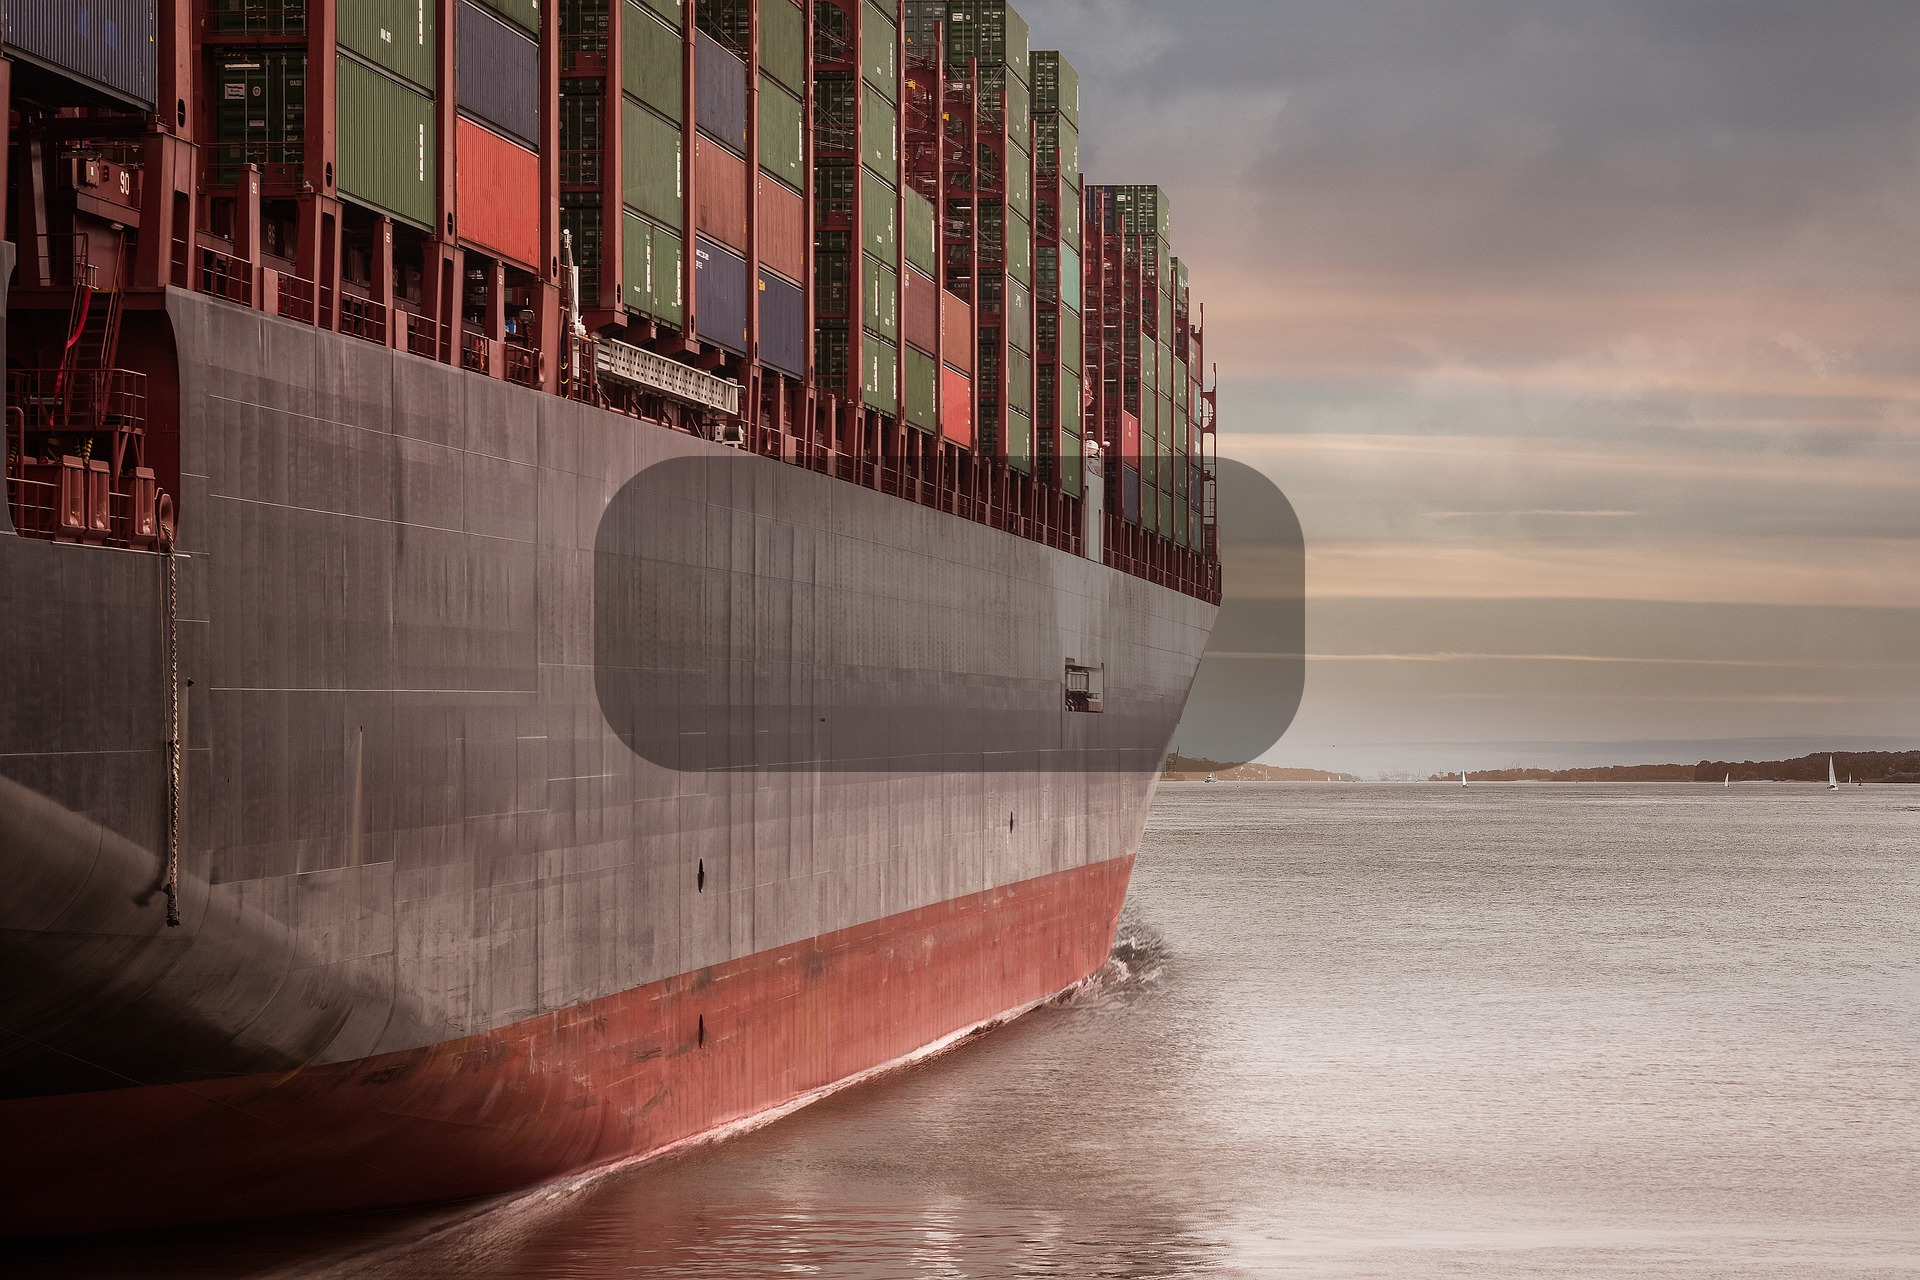
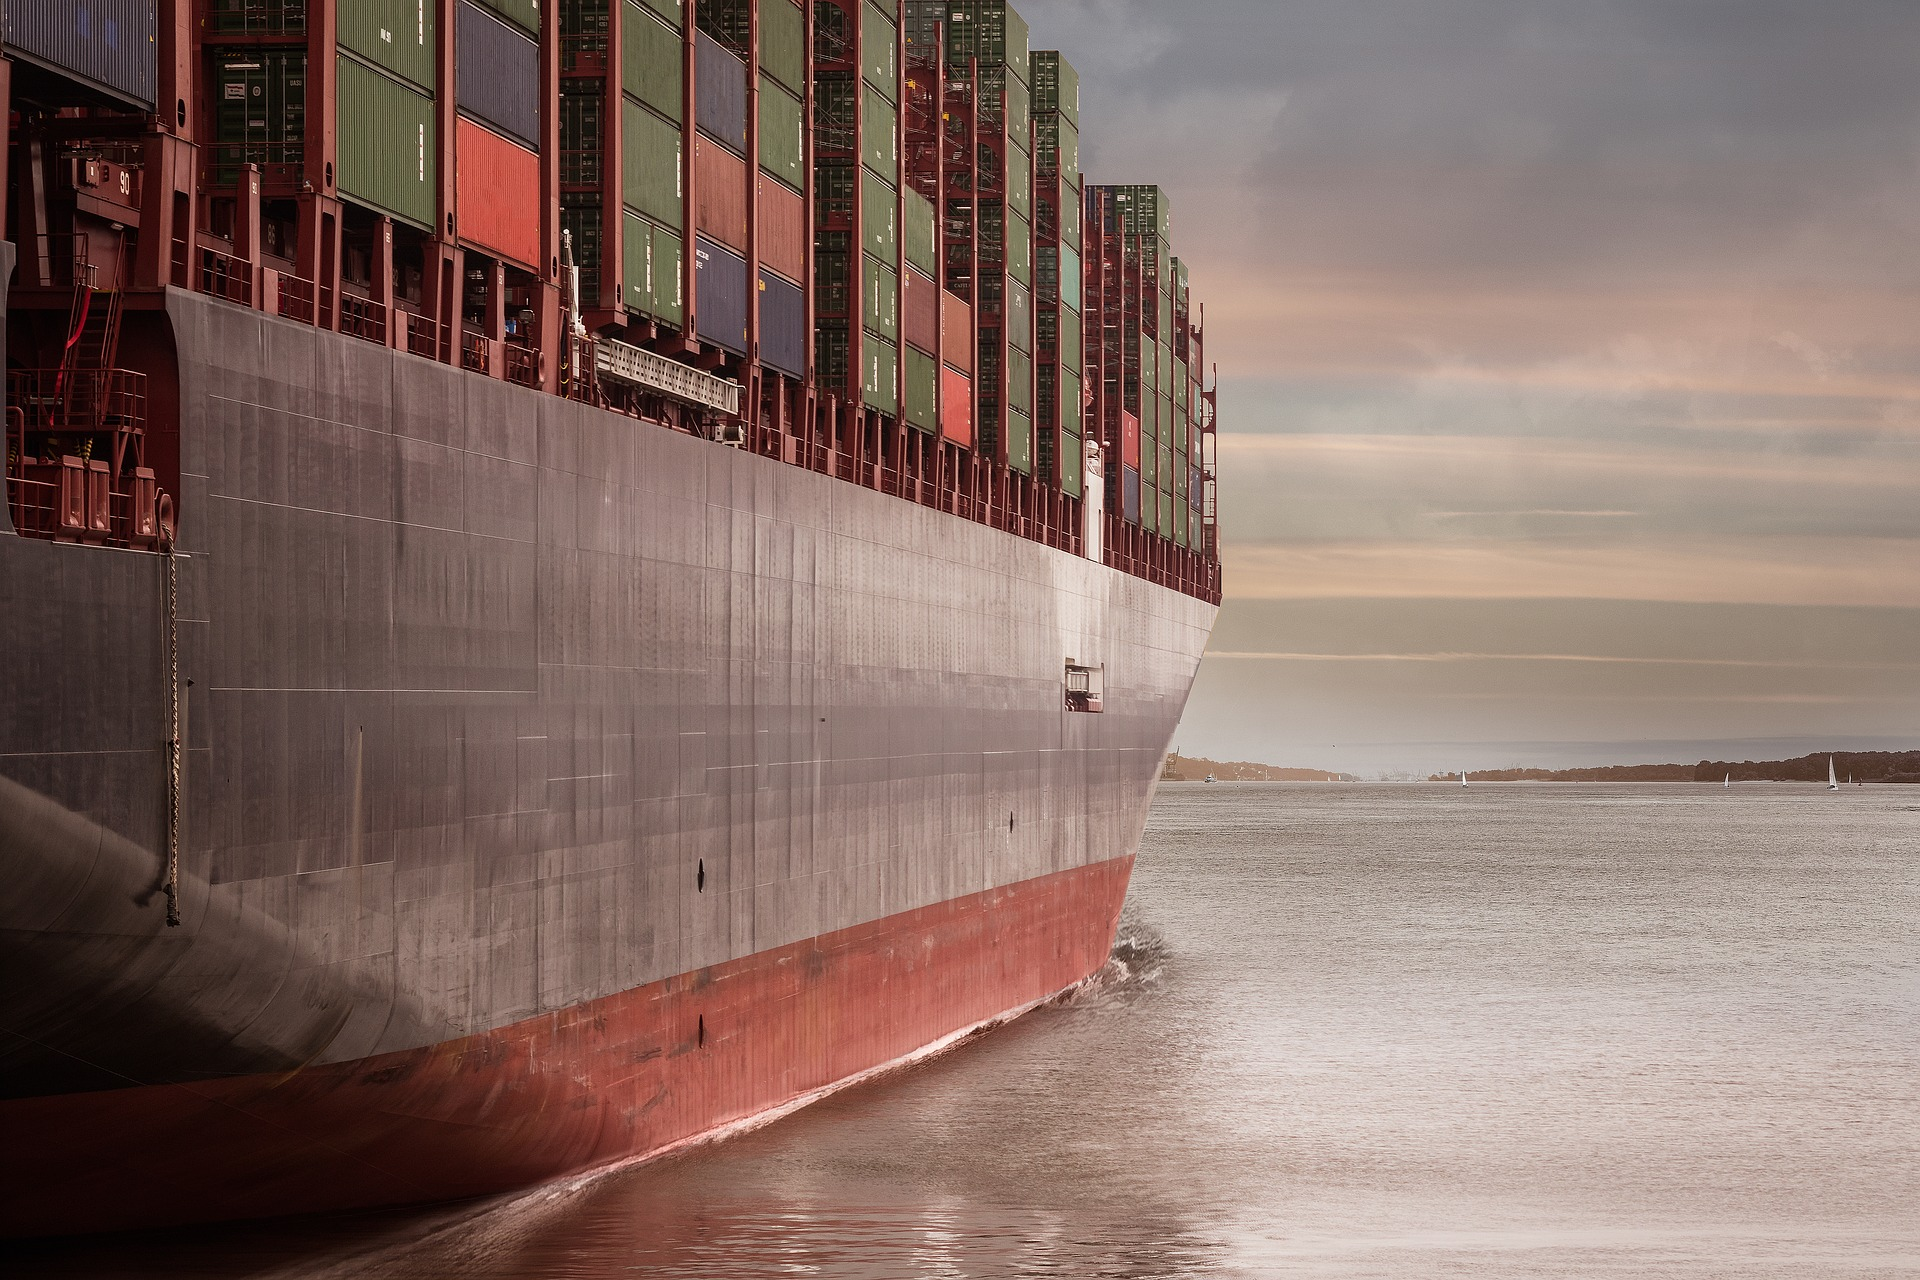
CSS background of front page

Changed region(s): [[0.3125, 0.3438, 0.6875, 0.625]]

diff --git a/static/css/creative.css b/static/css/creative.css
@@ -202,6 +202,13 @@ header .header-content {
     text-align: center;
 }
 
+header .header-content .header-content-inner {
+    padding: 10px;
+    background-color: rgba(85, 85, 85, 0.6);
+    border-radius: 10px;
+    -webkit-border-radius: 10px;
+}
+
 header .header-content .header-content-inner h1 {
     margin-top: 0;
     margin-bottom: 0;
@@ -238,6 +245,9 @@ header .header-content .header-content-inner p {
         margin-right: auto;
         margin-left: auto;
         max-width: 1000px;
+        padding: 20px;
+        border-radius: 15px;
+        -webkit-border-radius: 15px;
     }
 
     header .header-content .header-content-inner p {
